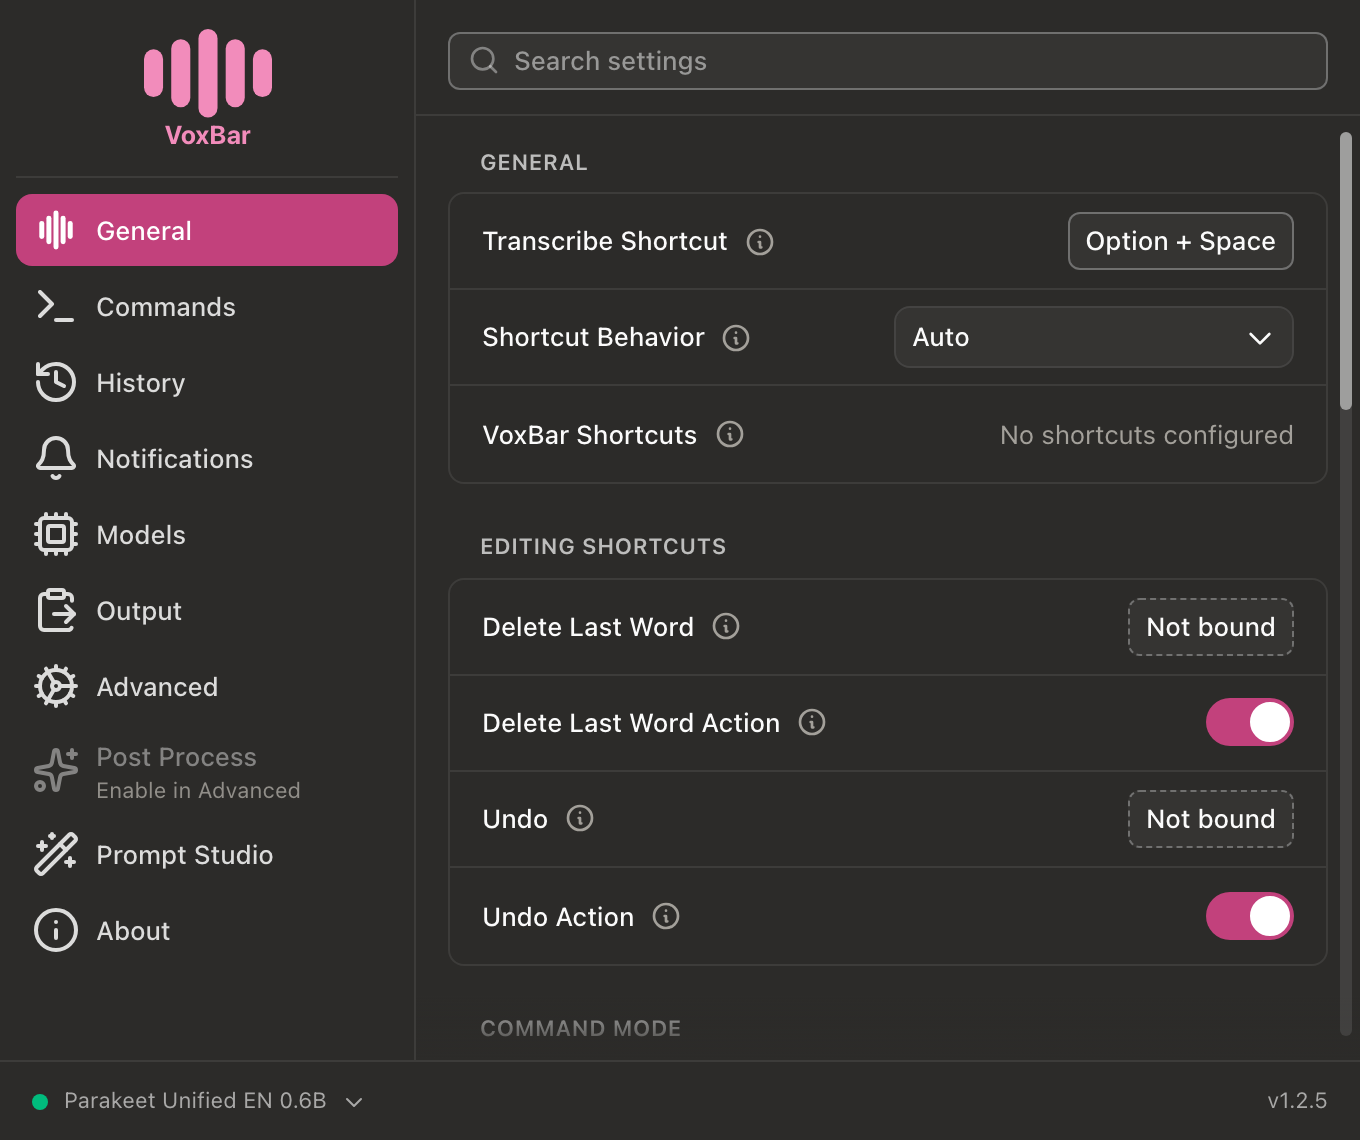
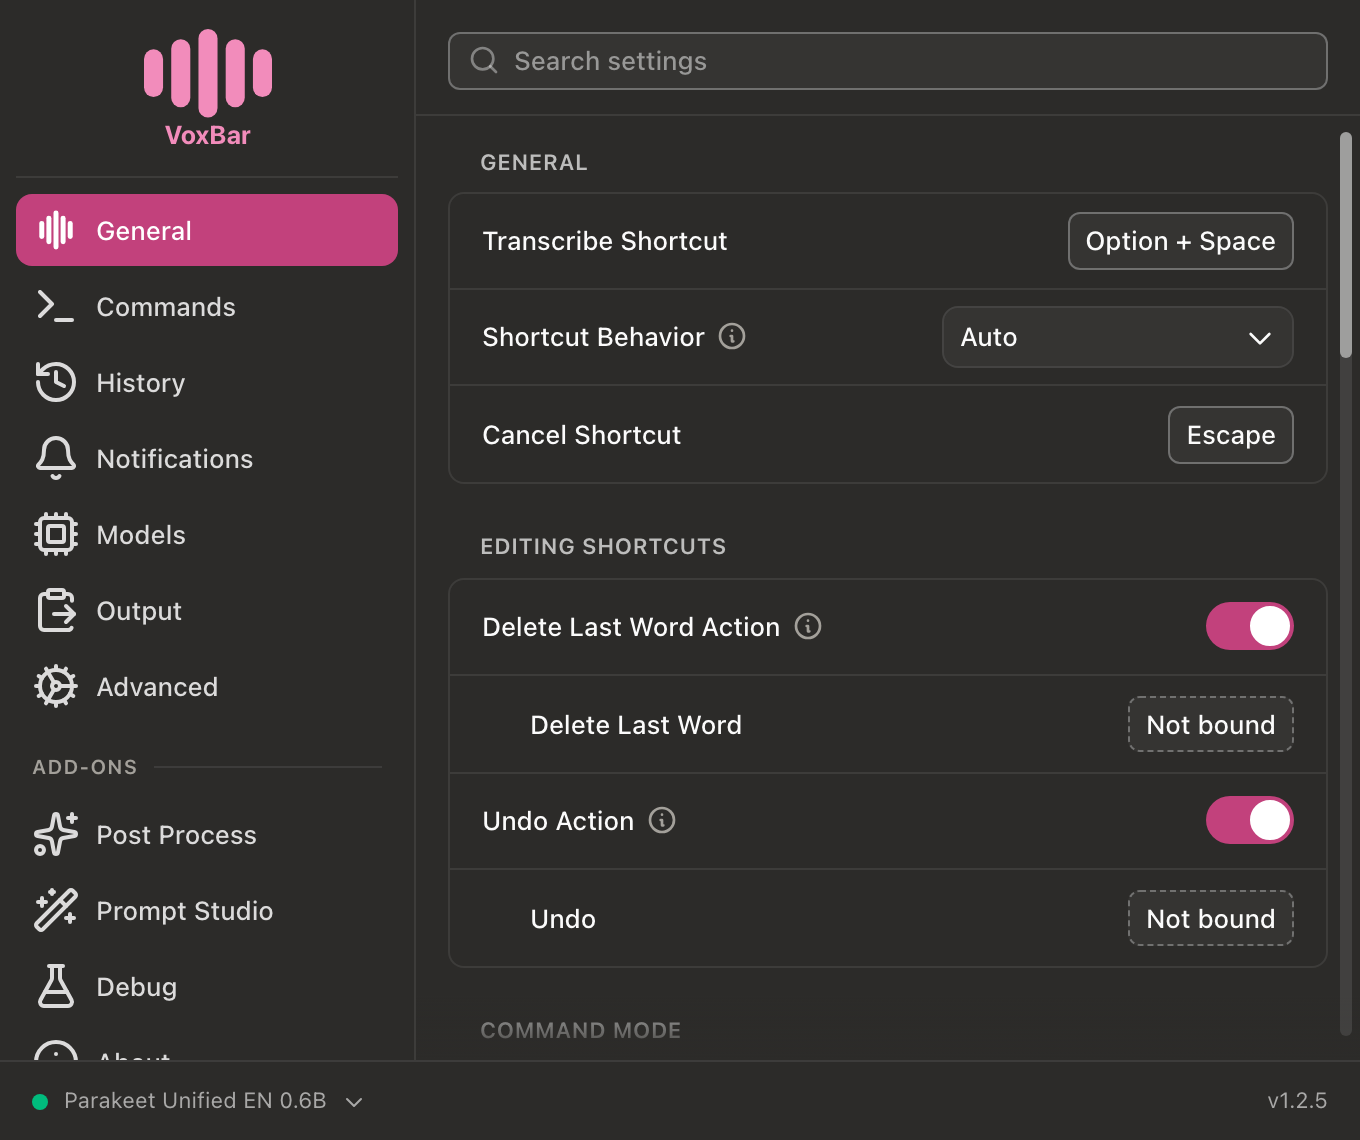
fix(ui): label the sidebar add-ons group and keep distinct dark general captures
- Sidebar groups Post Process and Prompt Studio under a small labeled divider (sidebar.addonsGroup added to all 26 locales), so the disabled Post Process row block reads as an intentional group instead of an unlabeled separator
- theme sweep General rows now carry the pp-on scenario on both themes: the light/dark pair stays sidebar-consistent and neither row collapses into a byte-identical duplicate of the resting settings-general shot
- re-shoot L5B theme-dark-settings-general from that definition so it is a distinct capture again

diff --git a/src/components/Sidebar.tsx b/src/components/Sidebar.tsx
@@ -171,54 +171,68 @@ export const Sidebar: React.FC<SidebarProps> = ({
           const isActive = section.enabledNow && activeSection === section.id;
 
           return (
-            <div
-              key={section.id}
-              className={`flex gap-2 items-center py-1.5 px-2 w-full shrink-0 rounded-lg transition-colors ${
-                isActive
-                  ? // The selected pill fills with the solid accent and
-                    // carries on-accent content, matching Badge's primary
-                    // variant: the fill/onFill pair is contrast-tested for
-                    // every accent in both themes (>= 4.5:1), unlike the
-                    // old logo-primary/80 tint where the 13px label fell to
-                    // 3.03:1 on dark accent fills.
-                    "bg-background-ui text-accent-on"
-                  : "hover:bg-mid-gray/20 hover:opacity-100 opacity-85"
-              } ${section.enabledNow ? "cursor-pointer" : "cursor-default"}`}
-              aria-disabled={!section.enabledNow}
-              onClick={() =>
-                onSectionChange(
-                  // A disabled Post Process row still goes somewhere useful:
-                  // Advanced hosts the toggle that turns it on.
-                  section.enabledNow ? section.id : "advanced",
-                )
-              }
-            >
-              <Icon
-                width={24}
-                height={24}
-                className={`shrink-0 ${section.enabledNow ? "" : "opacity-50"}`}
-              />
-              <div className="flex flex-col min-w-0">
-                <p
-                  className={`text-sm font-medium truncate ${section.enabledNow ? "" : "opacity-50"}`}
-                  title={
-                    section.enabledNow
-                      ? t(section.labelKey)
-                      : `${t(section.labelKey)}: ${t("sidebar.enableInAdvancedHint")}`
-                  }
-                >
-                  {t(section.labelKey)}
-                </p>
-                {!section.enabledNow && (
+            <React.Fragment key={section.id}>
+              {/* The add-on surfaces (Post Process, Prompt Studio) group under
+                  a small labeled divider: without it, the disabled Post
+                  Process row's taller block reads as an unlabeled separator
+                  instead of an intentional group (the sidebar-row audit). */}
+              {section.id === "postprocessing" && (
+                <div className="flex items-center gap-2 px-2 pt-2 pb-0.5 w-full shrink-0">
+                  <span className="text-[10px] font-semibold uppercase tracking-wider text-secondary truncate">
+                    {t("sidebar.addonsGroup")}
+                  </span>
+                  <span className="h-px flex-1 bg-mid-gray/20" />
+                </div>
+              )}
+              <div
+                key={section.id}
+                className={`flex gap-2 items-center py-1.5 px-2 w-full shrink-0 rounded-lg transition-colors ${
+                  isActive
+                    ? // The selected pill fills with the solid accent and
+                      // carries on-accent content, matching Badge's primary
+                      // variant: the fill/onFill pair is contrast-tested for
+                      // every accent in both themes (>= 4.5:1), unlike the
+                      // old logo-primary/80 tint where the 13px label fell to
+                      // 3.03:1 on dark accent fills.
+                      "bg-background-ui text-accent-on"
+                    : "hover:bg-mid-gray/20 hover:opacity-100 opacity-85"
+                } ${section.enabledNow ? "cursor-pointer" : "cursor-default"}`}
+                aria-disabled={!section.enabledNow}
+                onClick={() =>
+                  onSectionChange(
+                    // A disabled Post Process row still goes somewhere useful:
+                    // Advanced hosts the toggle that turns it on.
+                    section.enabledNow ? section.id : "advanced",
+                  )
+                }
+              >
+                <Icon
+                  width={24}
+                  height={24}
+                  className={`shrink-0 ${section.enabledNow ? "" : "opacity-50"}`}
+                />
+                <div className="flex flex-col min-w-0">
                   <p
-                    className="text-xs leading-tight text-secondary truncate"
-                    title={t("sidebar.enableInAdvancedHint")}
+                    className={`text-sm font-medium truncate ${section.enabledNow ? "" : "opacity-50"}`}
+                    title={
+                      section.enabledNow
+                        ? t(section.labelKey)
+                        : `${t(section.labelKey)}: ${t("sidebar.enableInAdvancedHint")}`
+                    }
                   >
-                    {t("sidebar.enableInAdvancedHint")}
+                    {t(section.labelKey)}
                   </p>
-                )}
+                  {!section.enabledNow && (
+                    <p
+                      className="text-xs leading-tight text-secondary truncate"
+                      title={t("sidebar.enableInAdvancedHint")}
+                    >
+                      {t("sidebar.enableInAdvancedHint")}
+                    </p>
+                  )}
+                </div>
               </div>
-            </div>
+            </React.Fragment>
           );
         })}
       </div>
